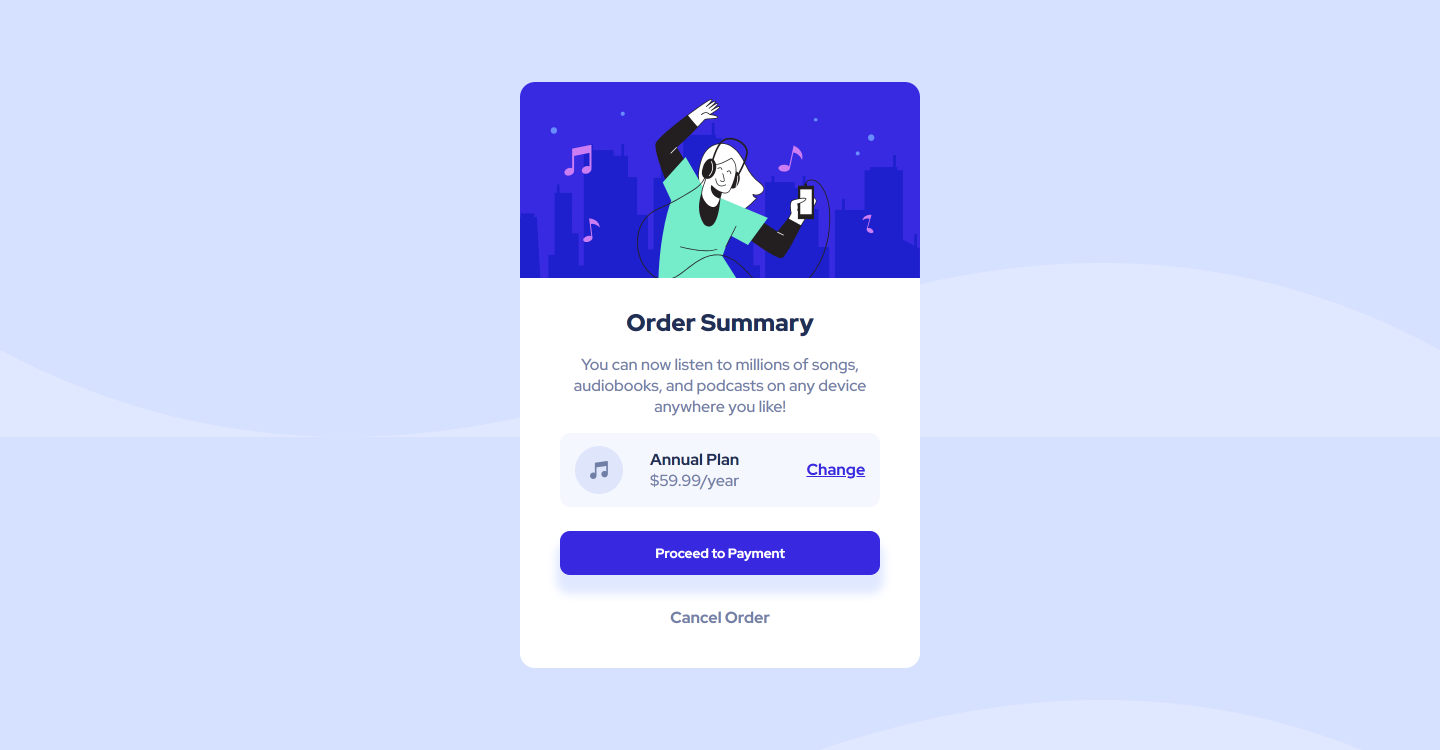
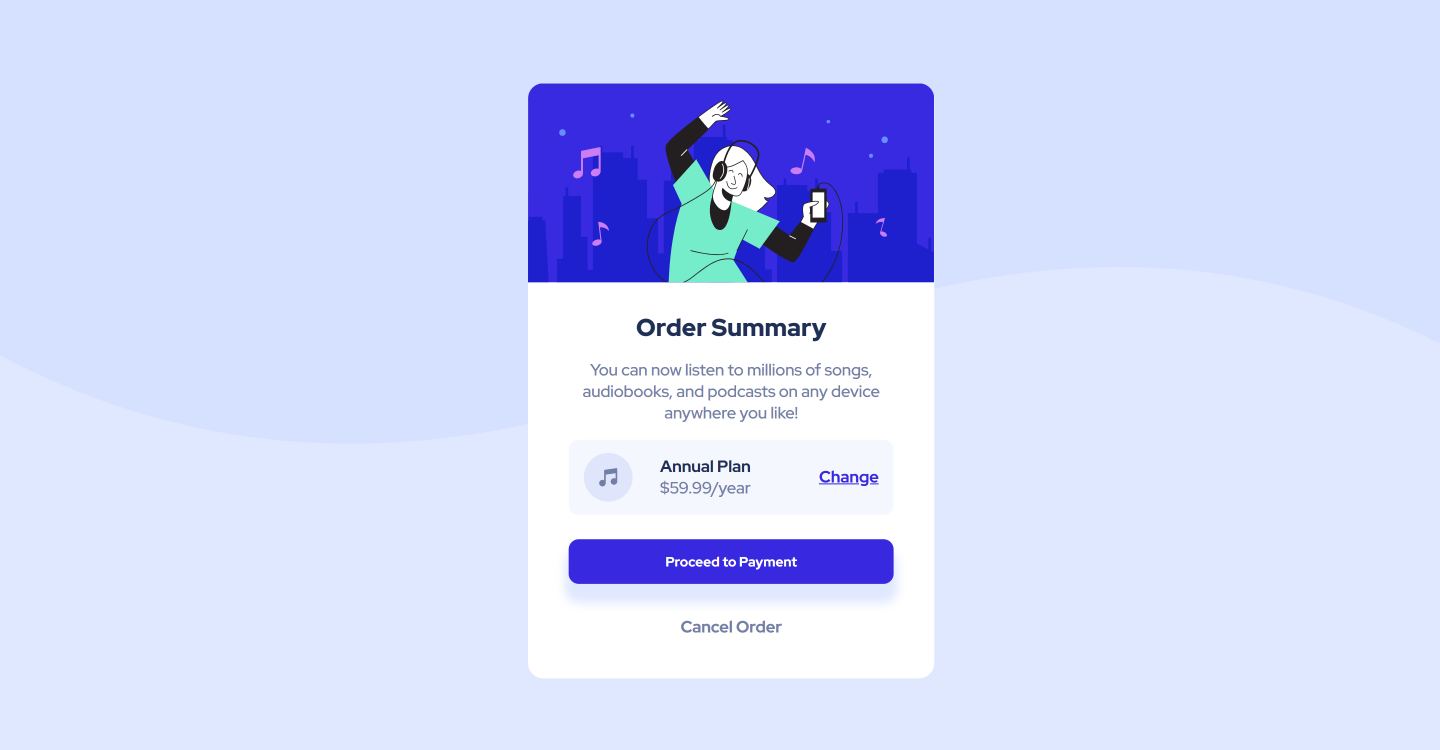
remove background image repeat property and change screenshot

Changed region(s): [[0.3438, 0.092, 0.6562, 0.92]]

diff --git a/styles.css b/styles.css
@@ -18,6 +18,7 @@ body {
     font-family: "Red Hat Display", sans-serif;
     font-weight: 500;
     background: url(./images/pattern-background-desktop.svg);
+    background-repeat: no-repeat;
     background-color: var(--pale-blue);
     width: 100vw;
     height: 100vh;
@@ -115,6 +116,7 @@ button:hover {
 @media (max-width: 768px) {
     body {
         background: url(./images/pattern-background-mobile.svg);
+        background-repeat: no-repeat;
         background-color: var(--pale-blue);
         line-height: 1.5;
     }
